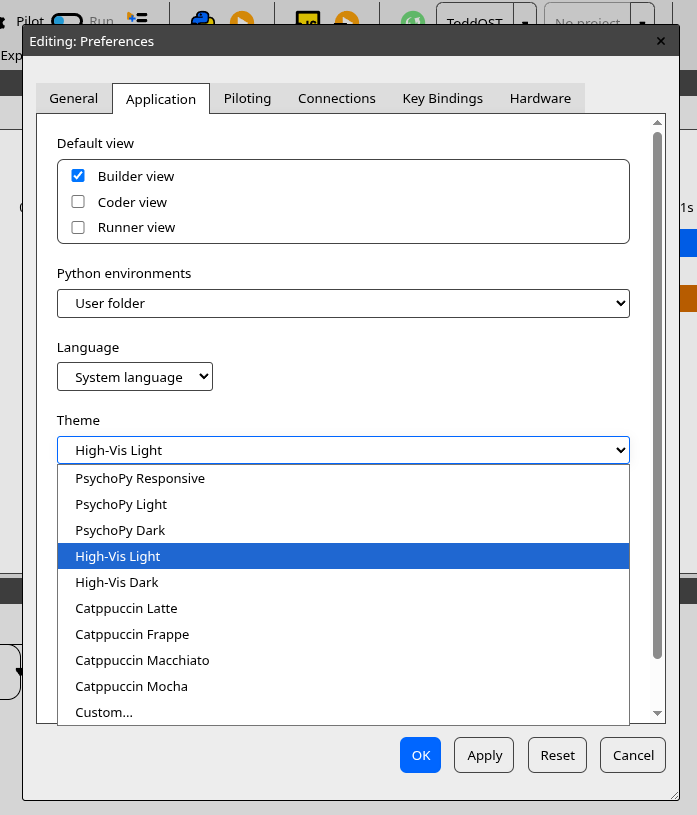
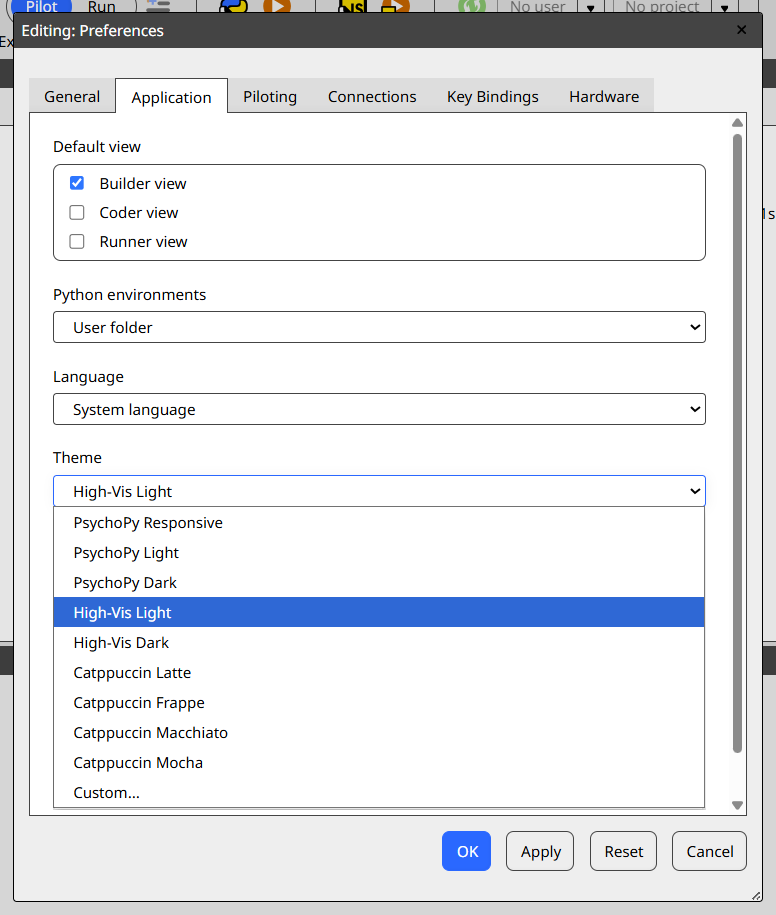
Update information on panel skipping in tab navigation

Changed region(s): [[0.0, 0.0, 1.0, 1.0], [0.8737, 0.4294, 0.9039, 0.4601]]

diff --git a/source/accessibility/index.rst b/source/accessibility/index.rst
@@ -18,10 +18,15 @@ Tooltips are an essential part of modern apps; they allow for both simple labels
 
 In some cases, simple labels can similarly be hovered or focused to show a more in-depth description, as with the names of parameters in Components.
 
+Screen readers
+===============================
+
+PsychoPy Studio is tested by using it with the [NVDA screen reader](https://www.nvaccess.org/) to make sure all the controls declare themselves and their labels correctly. If there's any controls we missed, please do report them on the [GitHub Issues for PsychoPy Studio](https://github.com/psychopy/psychopy-studio/issues).
+
 High-visibility themes
 ===============================
 
-The high-visibility themes ("High-Vis Light" and "Hi-Vis Dark", for light and dark mode respectively) use high contrast colors to make controls as visible as possible to users with limited vision. In builder view, they look like this:
+The high-visibility themes ("High-Vis Light" and "High-Vis Dark", for light and dark mode respectively) use high contrast colors to make controls as visible as possible to users with limited vision. In builder view, they look like this:
 
 .. image:: ./screenshots/builder-high-vis-light.png
     :alt: Screenshot of PsychoPy Studio Builder in with the High-Vis Light theme
@@ -46,12 +51,7 @@ To navigate using the keyboard, simply press Tab to move focus to the next butto
 Panel skipping
 ~~~~~~~~~~~~~~~~~~~~~~~~~~~~~~~
 
-There are a lot of buttons in each view, so to make navigation less tedious, we have included some shortcuts to jump focus to a particular panel. If you hold down the Alt key, panels' labels will change to show which key to press to jump focus to it, like so:
-
-.. image:: ./screenshots/panel-focus-skip.png
-    :alt: Screenshot of PsychoPy Studio Builder with the Alt key held down, showing panel skip shortcuts
-
-So, for example, to skip to the Routines panel, you would press Alt+R. This would select the first item in this panel (in this example, the "trial" tab). Using Alt + a number key will skip you to the matching section of the ribbon (e.g. Alt+0 skips to the File section).
+There are a lot of buttons in each view, so to make navigation less tedious, we have included a shortcuts to jump focus to the next panel. By default this shortcut is Ctrl+Tab, but you can change it in Preferences -> Key Bindings.
 
 Tab trapping
 ~~~~~~~~~~~~~~~~~~~~~~~~~~~~~~~
